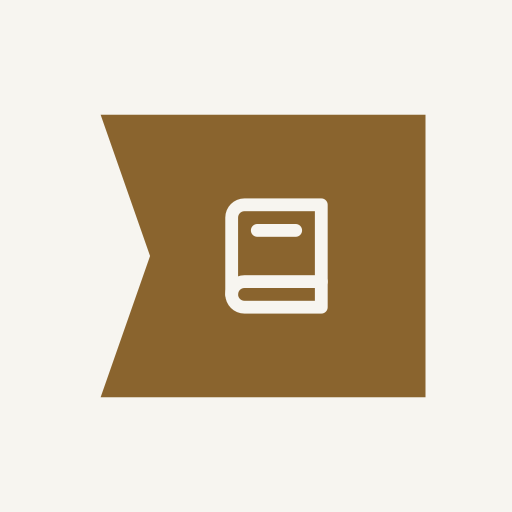
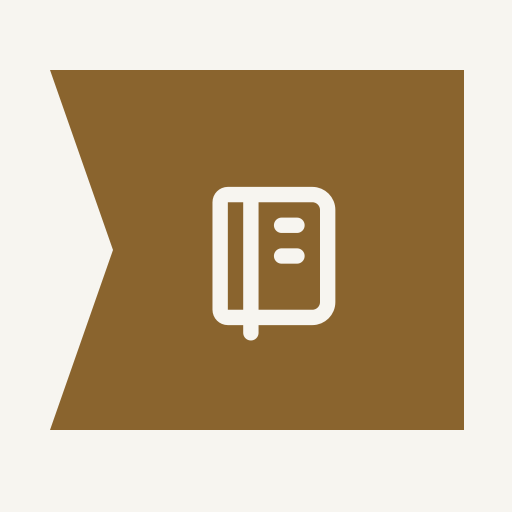
refine: align brand assets with home stripes

Changed region(s): [[0.0938, 0.125, 0.9062, 0.8438], [0.4062, 0.3438, 0.6562, 0.6875]]

diff --git a/scripts/generate-brand-assets.ts b/scripts/generate-brand-assets.ts
@@ -21,7 +21,7 @@ const COLORS = {
 
 const ribbonPaths = {
   category: "M 20 24 H 112 V 104 H 20 L 34 64 Z",
-  favicon: "M 16 30 H 112 L 94 64 L 112 98 H 16 Z",
+  favicon: "M 16 24 H 112 L 92 64 L 112 104 H 16 Z",
 } as const;
 
 const ogProgress = {
@@ -30,18 +30,16 @@ const ogProgress = {
   total: grandTotal(),
 } as const;
 
-function bookIcon(x: number, y: number, size: number): string {
-  return `<g transform="translate(${x} ${y}) scale(${size / 24})" fill="none" stroke="${COLORS.paper}" stroke-linecap="round" stroke-linejoin="round" stroke-width="2"><path d="M19 4v16h-12a2 2 0 0 1 -2 -2v-12a2 2 0 0 1 2 -2h12"/><path d="M19 16h-12a2 2 0 0 0 -2 2"/><path d="M9 8h6"/></g>`;
-}
-
 async function createIcon(size: number, maskable = false): Promise<Buffer> {
-  const inset = maskable ? 44 : 30;
-  const scale = (size - inset * 2) / 128;
-  const category = `<path d="${ribbonPaths.category}" transform="translate(${inset} ${inset}) scale(${scale})" fill="${COLORS.ochre}"/>`;
-  const bookSize = size * (maskable ? 0.25 : 0.3);
+  const inset = maskable ? size * (44 / 512) : 0;
+  const scale = maskable ? (size - inset * 2) / 128 : (size * 4.5) / 512;
+  const translateX = maskable ? inset : size * (-40 / 512);
+  const translateY = maskable ? inset : size * (-38 / 512);
+  const category = `<path d="${ribbonPaths.category}" transform="translate(${translateX} ${translateY}) scale(${scale})" fill="${COLORS.ochre}"/>`;
+  const notebookSize = size * (maskable ? 0.25 : 0.36);
   return sharp(
     svg(
-      `<rect width="100%" height="100%" fill="${COLORS.paper}"/>${category}${bookIcon((size - bookSize) / 2 + size * 0.04, (size - bookSize) / 2, bookSize)}`,
+      `<rect width="100%" height="100%" fill="${COLORS.paper}"/>${category}${notebookIcon((size - notebookSize) / 2 + size * 0.035, (size - notebookSize) / 2, notebookSize)}`,
       size,
       size,
     ),
@@ -56,16 +54,16 @@ async function createOgImage(): Promise<Buffer> {
     font("ibm-plex-mono-latin.woff2"),
   ]);
   const stripeX = 126;
-  const stripeY = 364;
-  const stripeWidth = 948;
-  const stripeHeight = 152;
-  const ribbonWidth = 188;
-  const ribbonX = stripeX + stripeWidth - ribbonWidth;
-  const countX = ribbonX - 38;
+  const stripeY = 352;
+  const stripeWidth = 882;
+  const stripeHeight = 160;
+  const ribbonWidth = 142;
+  const ribbonX = stripeX + stripeWidth - ribbonWidth + 28;
+  const countX = ribbonX - 34;
 
   return sharp(
     svg(
-      `<style>@font-face{font-family:Instrument;src:url(data:font/woff2;base64,${displayFont})}@font-face{font-family:Data;src:url(data:font/woff2;base64,${dataFont})}</style><rect width="1200" height="630" fill="${COLORS.paper}"/><rect x="28" y="28" width="1144" height="574" fill="none" stroke="${COLORS.hairline}" stroke-width="2"/><text x="126" y="190" fill="${COLORS.ink}" font-family="Instrument, Georgia, serif" font-size="79" font-style="italic">Mistria Field Guide</text><text x="130" y="245" fill="${COLORS.muted}" font-family="Data, monospace" font-size="20" letter-spacing="2.5">YOUR UNOFFICIAL COMPLETION COMPANION</text><rect x="${stripeX}" y="${stripeY}" width="${stripeWidth}" height="${stripeHeight}" fill="${COLORS.raised}"/><path d="M 0 0 H 100 V 100 H 0 L 16 50 Z" transform="translate(${ribbonX} ${stripeY + 8}) scale(${ribbonWidth / 100} ${(stripeHeight - 16) / 100})" fill="${COLORS.ochre}"/><text x="166" y="424" fill="${COLORS.ink}" font-family="Georgia, serif" font-size="42" font-weight="600">Everything</text><text x="166" y="470" fill="${COLORS.muted}" font-family="Georgia, serif" font-size="25">Track every collection, quest, skill, &amp; more.</text><text x="${countX}" y="430" fill="${COLORS.ink}" font-family="Data, monospace" font-size="25" text-anchor="end">${ogProgress.completed.toLocaleString()} <tspan fill="${COLORS.ochre}">/</tspan> ${ogProgress.total.toLocaleString()}</text><rect x="${stripeX}" y="510" width="${stripeWidth}" height="6" fill="#e4ddcf"/><rect x="${stripeX}" y="510" width="${(stripeWidth * ogProgress.percent) / 100}" height="6" fill="${COLORS.ochre}"/>`,
+      `<style>@font-face{font-family:Instrument;src:url(data:font/woff2;base64,${displayFont})}@font-face{font-family:Data;src:url(data:font/woff2;base64,${dataFont})}</style><rect width="1200" height="630" fill="${COLORS.paper}"/><rect x="28" y="28" width="1144" height="574" fill="none" stroke="${COLORS.hairline}" stroke-width="2"/><text x="126" y="190" fill="${COLORS.ink}" font-family="Instrument, Georgia, serif" font-size="79" font-style="italic">Mistria Field Guide</text><text x="130" y="245" fill="${COLORS.muted}" font-family="Data, monospace" font-size="20" letter-spacing="2.5">YOUR UNOFFICIAL COMPLETION COMPANION</text><rect x="${stripeX + 4}" y="${stripeY + 5}" width="${stripeWidth}" height="${stripeHeight}" fill="#2e2a2220"/><rect x="${stripeX}" y="${stripeY}" width="${stripeWidth}" height="${stripeHeight}" fill="${COLORS.raised}"/><rect x="161" y="397" width="245" height="26" fill="#8a642e33" transform="rotate(-0.7 161 397)"/><path d="M 0 0 H 100 V 100 H 0 L 16 50 Z" transform="translate(${ribbonX} ${stripeY + 8}) scale(${ribbonWidth / 100} ${(stripeHeight - 16) / 100})" fill="${COLORS.ochre}"/>${notebookIcon(ribbonX + ribbonWidth * 0.4, stripeY + stripeHeight / 2 - 23, 46)}<text x="166" y="421" fill="${COLORS.ink}" font-family="Georgia, serif" font-size="43" font-weight="600">Everything</text><text x="166" y="470" fill="${COLORS.muted}" font-family="Arial, sans-serif" font-size="22">Track every collection, quest, skill, &amp; more.</text><text x="${countX}" y="440" fill="${COLORS.ink}" font-family="Data, monospace" font-size="25" text-anchor="end">${ogProgress.completed.toLocaleString()} <tspan fill="${COLORS.ochre}">/</tspan> ${ogProgress.total.toLocaleString()}</text><rect x="${stripeX}" y="${stripeY + stripeHeight - 4}" width="${stripeWidth}" height="4" fill="#e4ddcf"/><rect x="${stripeX}" y="${stripeY + stripeHeight - 4}" width="${(stripeWidth * ogProgress.percent) / 100}" height="4" fill="${COLORS.ochre}"/>`,
       1200,
       630,
     ),
@@ -132,6 +130,10 @@ async function main(): Promise<void> {
   console.log(
     `Generated brand assets with ${ogProgress.total.toLocaleString()} total trackable entries.`,
   );
+}
+
+function notebookIcon(x: number, y: number, size: number): string {
+  return `<g transform="translate(${x} ${y}) scale(${size / 24})" fill="none" stroke="${COLORS.paper}" stroke-linecap="round" stroke-linejoin="round" stroke-width="2"><path d="M6 4h11a2 2 0 0 1 2 2v12a2 2 0 0 1 -2 2h-11a1 1 0 0 1 -1 -1v-14a1 1 0 0 1 1 -1m3 0v18"/><path d="M13 8l2 0"/><path d="M13 12l2 0"/></g>`;
 }
 
 function svg(content: string, width: number, height: number): Buffer {

diff --git a/src/routes/+page.svelte b/src/routes/+page.svelte
@@ -1,5 +1,5 @@
 <script lang="ts">
-  import { IconLibrary } from "@tabler/icons-svelte-runes";
+  import { IconNotebook } from "@tabler/icons-svelte-runes";
 
   import { resolve } from "$app/paths";
   import CategoryGrid from "$lib/components/category-grid.svelte";
@@ -28,7 +28,7 @@
 <div class="home-page">
   <header class="home-header" style="--overall-progress: {overallPct}%">
     <h1 class="flex min-w-0 items-center gap-2 font-display text-2xl leading-none">
-      <IconLibrary class="size-5 shrink-0 text-amber-700 dark:text-amber-400" />
+      <IconNotebook class="size-5 shrink-0 text-amber-700 dark:text-amber-400" />
       Mistria Field Guide
     </h1>
     <OverallProgress progress={allProgress} />
